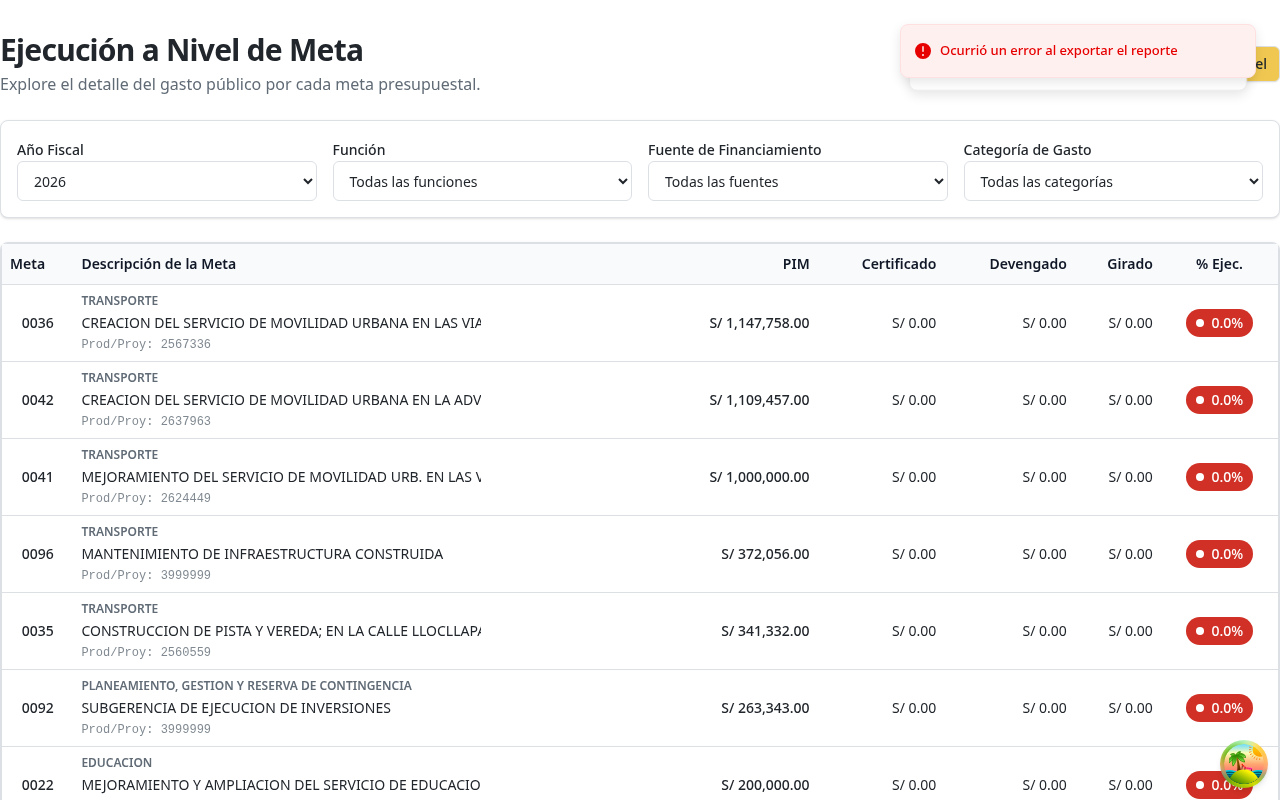
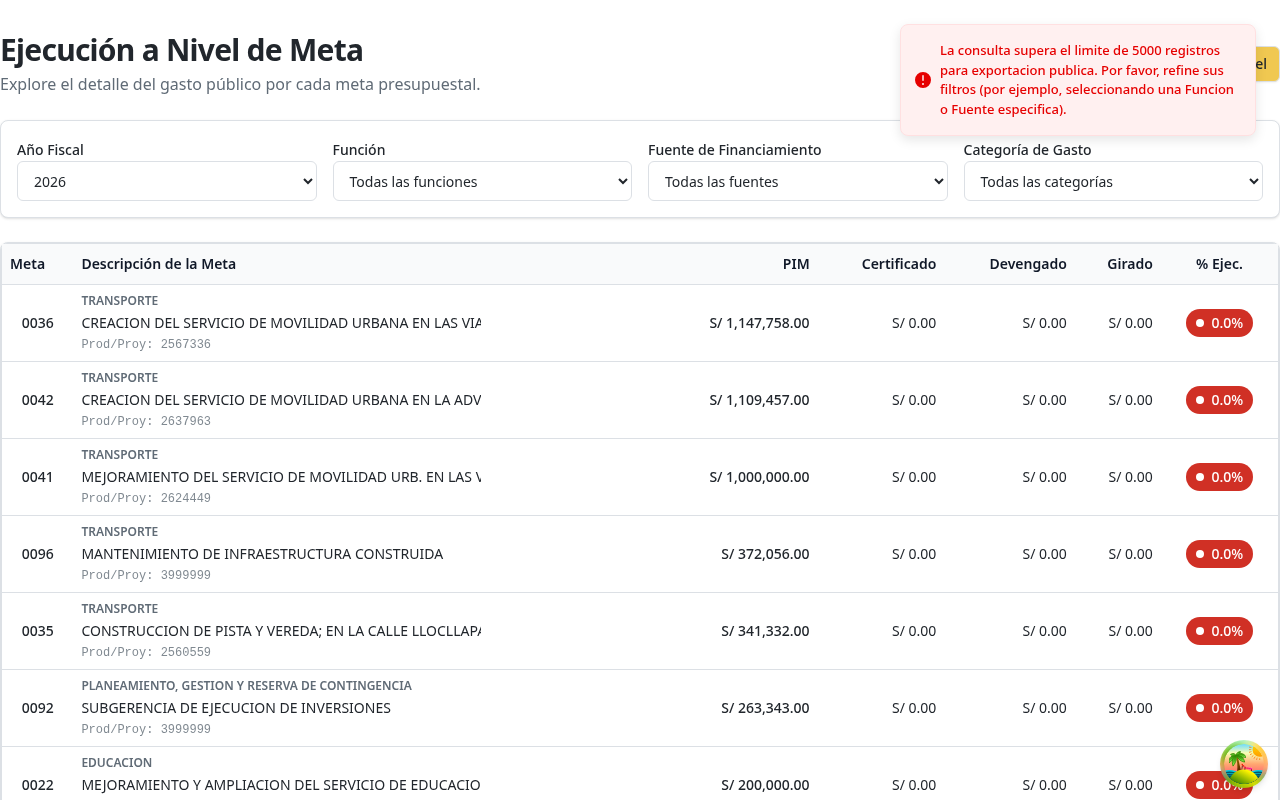
fix(ejecucion): Parse blob error response for detailed toast message in T-42

Changed region(s): [[0.7188, 0.0312, 0.9688, 0.1562]]

diff --git a/frontend/src/features/ejecucion/hooks.ts b/frontend/src/features/ejecucion/hooks.ts
@@ -63,15 +63,31 @@ export function useEjecucionDetalle(params: EjecucionDetalleParams) {
 export function useExportarEjecucionPublico() {
   return {
     exportar: async (filtros: EjecucionDetalleParams) => {
+      let toastId: string | number = '';
       try {
-        const toastId = toast.loading('Generando reporte Excel...');
+        toastId = toast.loading('Generando reporte Excel...');
         // Filtramos paginación
         const { page, size, sort, ...soloFiltros } = filtros;
         await exportarEjecucionPublico(soloFiltros);
         toast.success('Reporte exportado exitosamente', { id: toastId });
-      } catch (error) {
+      } catch (error: any) {
         console.error('Error exportando reporte', error);
-        toast.error('Ocurrió un error al exportar el reporte');
+        let mensaje = 'Ocurrió un error al exportar el reporte';
+        
+        // Axios con responseType='blob' devuelve el error 400 también como Blob.
+        if (error.response?.data instanceof Blob) {
+          try {
+            const text = await error.response.data.text();
+            const json = JSON.parse(text);
+            if (json.detail) mensaje = json.detail;
+          } catch (e) {
+            // Ignorar y usar genérico
+          }
+        } else if (error.response?.data?.detail) {
+          mensaje = error.response.data.detail;
+        }
+        
+        toast.error(mensaje, { id: toastId });
         throw error;
       }
     }